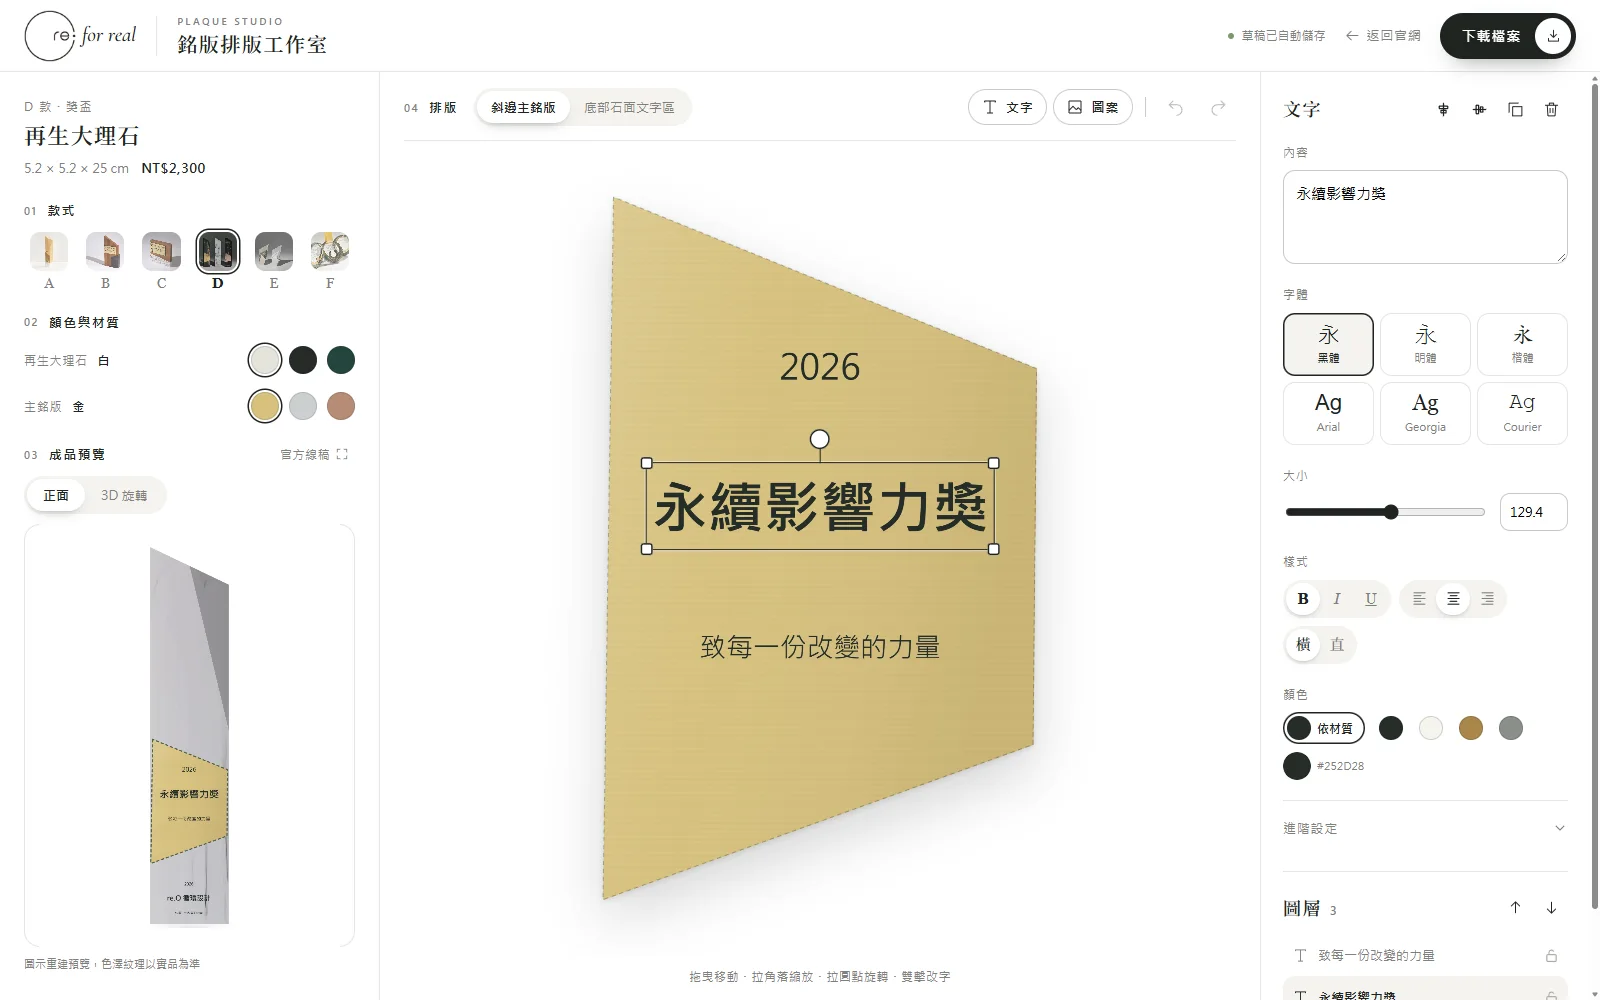
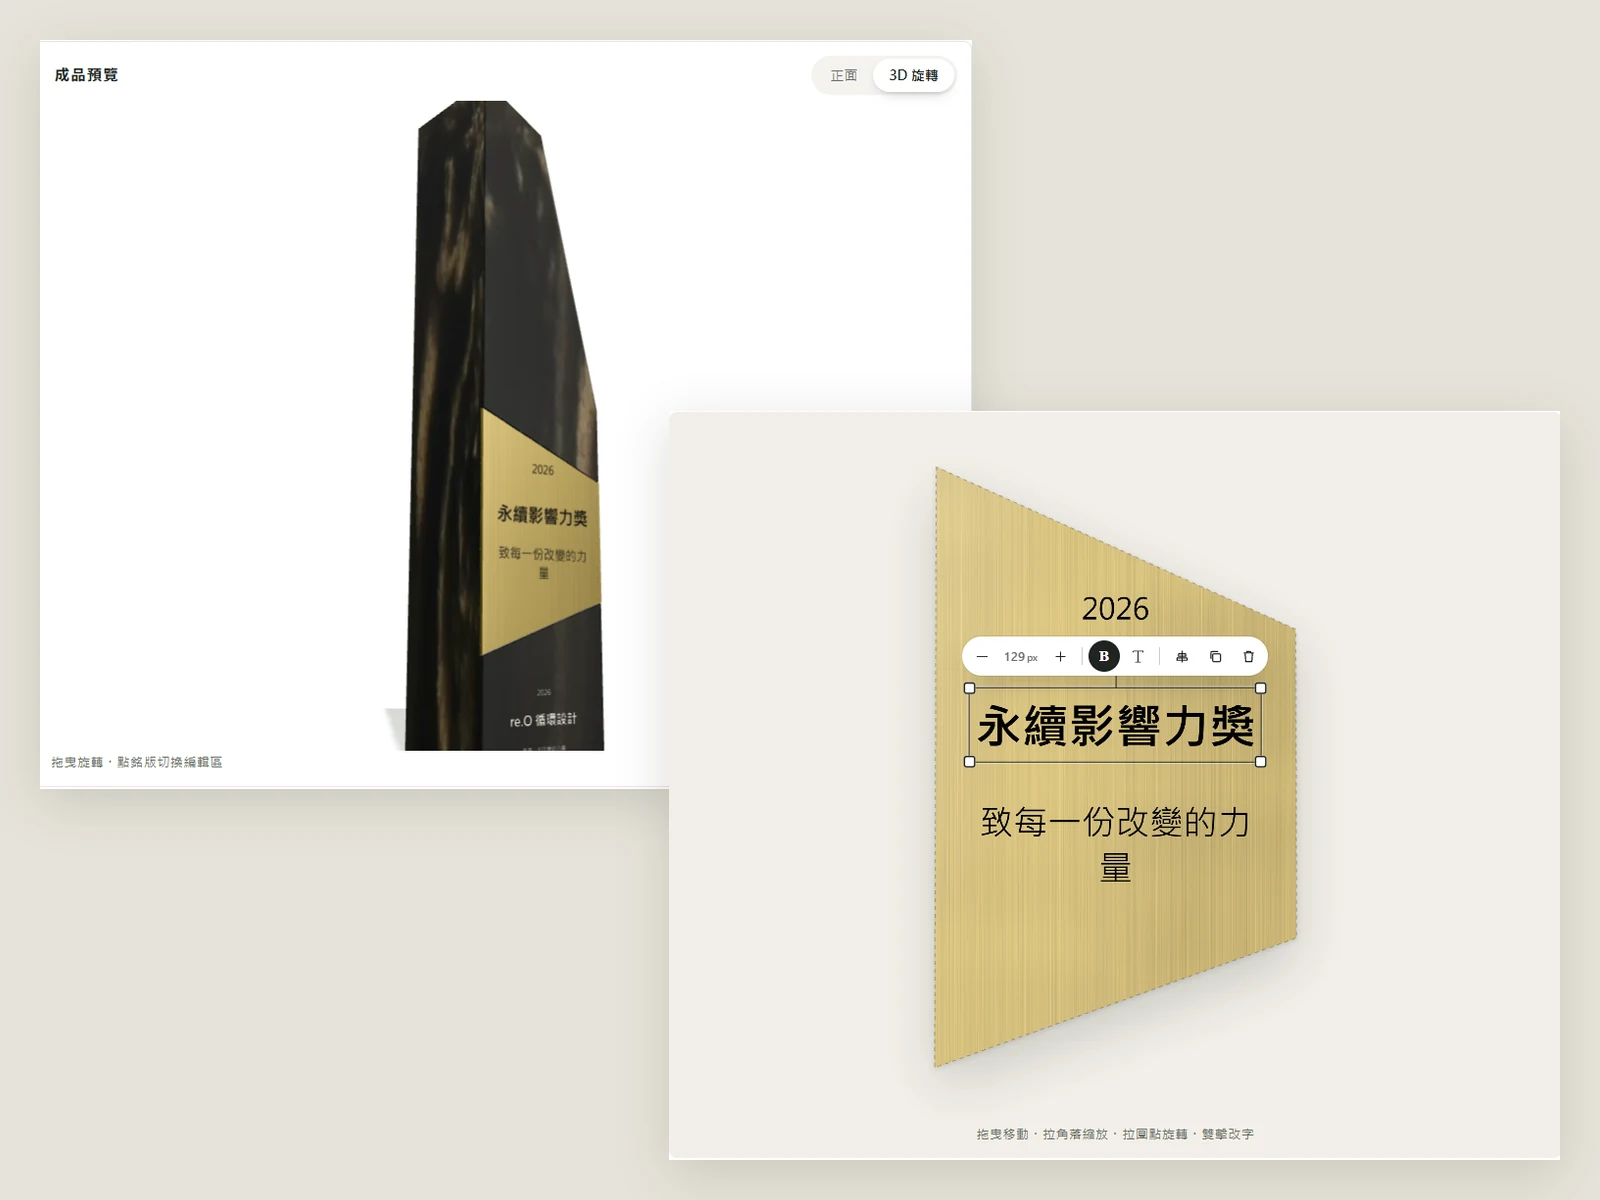
Studio exports note renders are a reference and pieces are handmade; 公版 step 02 shows the current studio (v1.14.2)

diff --git a/src/content/landings.jsx b/src/content/landings.jsx
@@ -23,7 +23,7 @@ const flow=[
   ['10 座以上','可以請我們協助免費設計排版。'],
   // v71 (owner, 2026-11-17): one merged row; the layout-help fee is NT$300.
   ['低於 10 座',<>可以至「<a href="#/preview/D" {...studioTab}>銘版排版工作室</a>」自行擺放滿意版型（完成後可下載 .PDF 及 .EPS 檔案），上傳至 <a href="mailto:service@re-o.co">service@re-o.co</a>，收件後會依實際印刷條件協助免費調整。可以請我們協助設計排版，會酌收排版費 。</>]
- ],src:'/assets/studio-preview.webp',width:1600,height:1000,position:'50% 0',alt:'re.O 銘版排版工作室畫面'},
+ ],src:'/assets/studio-preview.webp',width:1600,height:1200,position:'50% 50%',alt:'re.O 銘版排版工作室畫面：左邊 3D 成品預覽，右邊銘板排版'},
  {title:'手工生產',line:'製作工期依訂購數量而定。',src:'/assets/flow-casting.webp',width:1800,height:1202,position:'50% 50%',alt:'再生大理石漿料灌注入模'}
 ];
 const two=n=>String(n).padStart(2,'0');

diff --git a/src/editor/PdfExport.js b/src/editor/PdfExport.js
@@ -8,8 +8,10 @@ function sheet(title,subtitle,logo) {
   ctx.fillStyle='#747c70';ctx.font='19px "Microsoft JhengHei", sans-serif';ctx.fillText(subtitle,72,206);
   ctx.strokeStyle='#cdcec5';ctx.beginPath();ctx.moveTo(72,230);ctx.lineTo(1168,230);ctx.stroke();
   ctx.fillStyle='#747c70';ctx.font='18px "Microsoft JhengHei", sans-serif';
-  ctx.fillText('排版預覽確認稿｜非 1:1 製作尺寸，實際製作需由 re.O 校稿確認。',72,1660);
-  ctx.fillText('service@re-o.co  /  +886-2-8966-5369',72,1698);
+  // v1.14.2 (owner, 2026-11-28): the render is a reference; every real piece is handmade, with its own grain.
+  ctx.fillText('排版預覽確認稿｜非 1:1 製作尺寸，實際製作需由 re.O 校稿確認。',72,1632);
+  ctx.fillText('圖片渲染效果僅供參考，實際作品為手工製作，每件都有獨一無二的紋理與材質特性。',72,1666);
+  ctx.fillText('service@re-o.co  /  +886-2-8966-5369',72,1704);
   return {canvas:c,ctx};
 }
 function place(ctx,image,x,y,w,h) {

diff --git a/src/editor/EpsExport.js b/src/editor/EpsExport.js
@@ -98,6 +98,7 @@ export async function exportEps(model,scene,documents){
   '%%LanguageLevel: 3','%%DocumentData: Clean7Bit','%%DocumentNeededResources: font Helvetica','%%EndComments',
   '% Text is converted to outlines. Red lines show the editable outline from the diagram reconstruction;',
   '% sizes are approximate and the production drawing is confirmed by re.O (service@re-o.co).',
+  '% Rendered previews are for reference only: every piece is handmade, with its own grain, texture and material character.',
   '%%BeginProlog','/m {moveto} bind def /l {lineto} bind def /h {closepath} bind def','%%EndProlog',
   'save',...body,'restore','showpage','%%Trailer','%%EOF',''].join('\n');
  const blob=new Blob([eps],{type:'application/postscript'}),url=URL.createObjectURL(blob),a=document.createElement('a');

diff --git a/src/version.js b/src/version.js
@@ -3,7 +3,7 @@
 //                patch (1.0.1) for small fixes and copy, minor (1.1.0) for new features or sections, major (2.0.0) for a redesign.
 //   build.date   the date the site was last built (Taipei), filled in by vite.config.js. Every change, including a save
 //                from the case admin, rebuilds the site, so this is the date of the latest change.
-export const siteVersion = '1.14.1';
+export const siteVersion = '1.14.2';
 /* global __BUILD__ */
 export const build = typeof __BUILD__ === 'undefined' ? {date: ''} : __BUILD__;
 export const versionLabel = ['v' + siteVersion, build.date].filter(Boolean).join(' · ');

diff --git a/AGENTS.md b/AGENTS.md
@@ -1330,3 +1330,9 @@ photographs from 東陽整理照片\物料照片, except the folder 百分料處
   public photograph of each linked report, which the owner supplied (public/assets/press/). They were taken at the
   event, so they are not marked 示意照片. Photographs from outlets are used only when the owner hands them over.
 - IDDI 設計驅動產業創新 is a grant (補助案) and left the record; there is no kind for grants yet (33 entries).
+
+## Handmade note on exports, new studio photo on 公版 (v1.14.2, 2026-11-28)
+- The PDF sheets add 「圖片渲染效果僅供參考，實際作品為手工製作，每件都有獨一無二的紋理與材質特性。」 above the contact line;
+  the EPS carries the same note as a comment (EPS stays 7-bit, so in English).
+- 公版 ordering step 02 shows the owner's screenshot of the current studio (3D preview and plate), set as two overlapping
+  panels on the stage colour in a 1600×1200 picture so the band's 4:3 frame shows it whole.
